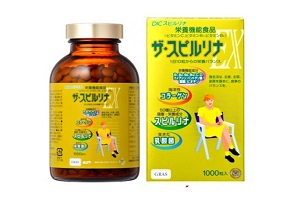
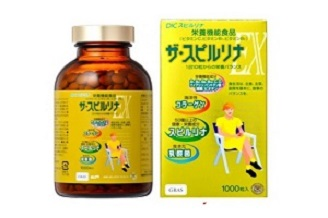
aa

diff --git a/chitiet03taovang.html b/chitiet03taovang.html
@@ -1,8 +1,8 @@
 
 <!DOCTYPE html>
-<meta content='Dầu gấc viên nang' property='og:title'/>
-<meta content='"Giảm cân, đẹp da và ngủ ngon"' property='og:description'/>
-<meta content='img1/background/2vinaga.jpg' property='og:image'/>
+<meta content='Tảo Nhật vàng Spirulina' property='og:title'/>
+<meta content='"Công dụng của tảo vàng Nhật Bản làm chậm quá trình lão hóa, điều hòa hormone, có tác dụng làm làn da mịn màng, tươi trẻ cho phụ nữ. Giúp chống béo phì, thừa cân, tăng cường quá trình tiêu hóa tốt hơn, hỗ trợ thải độc một cách tự nhiên. Tăng cường thị lực..."' property='og:description'/>
+<meta content='img1/background/3taonhatvang.jpg' property='og:image'/>
 <html>
 <head>
   <link REL="SHORTCUT ICON" HREF="favicon.ico"> 
@@ -543,7 +543,7 @@
                 <div class="tab-content">
                   
                   <div role="tabpanel" class="tab-pane active" id="home">
-                    <iframe class="center-block" width="560" height="315" src="https://www.youtube.com/embed/a4mgDmVKq6Y" frameborder="0" gesture="media" allow="encrypted-media" allowfullscreen></iframe> <br>
+                    <iframe class="center-block" width="560" height="315" src="https://www.youtube.com/embed/a4mgDmVKq6Y?autoplay=1" frameborder="0" gesture="media" allow="encrypted-media" allowfullscreen></iframe> <br>
                     <h5> Công dụng:</h5>
 🍀 Công dụng của tảo vàng Nhật Bản 1000 viên làm chậm quá trình lão hóa, điều hòa hormone, có tác dụng  làm làn da mịn màng, tươi trẻ cho phụ nữ. Giúp chống béo phì, thừa cân, tăng cường quá trình tiêu hóa tốt hơn, hỗ trợ thải độc một cách tự nhiên. Tăng cường thị lực.<br>
 🍀 Tảo vàng Nhật EX 1000 viên là một thực phẩm cung cấp các thành phần Vitamin và bổ sung các chất dinh dưỡng cần thiết cho cơ thể Từ đó mà có tác dụng chống suy dinh dưỡng rất tốt cho trẻ em, người lớn tuổi, người bệnh sau phẫu thuật, người thiếu dinh dưỡng.<br>
